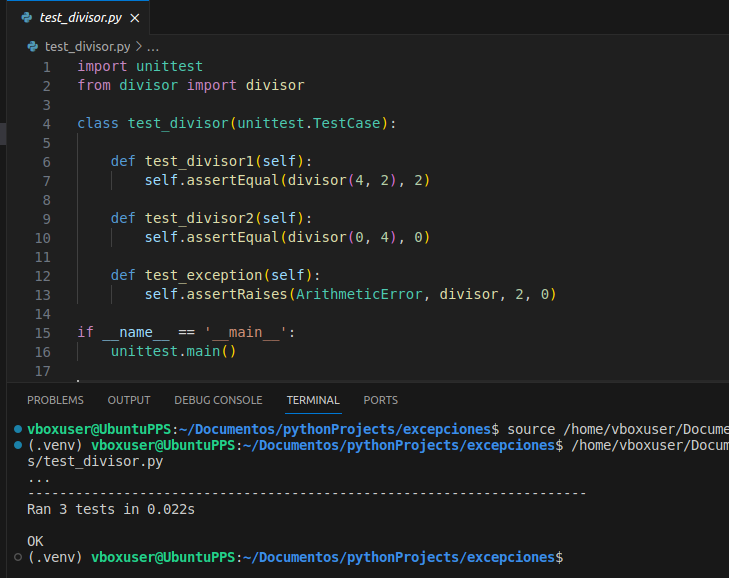
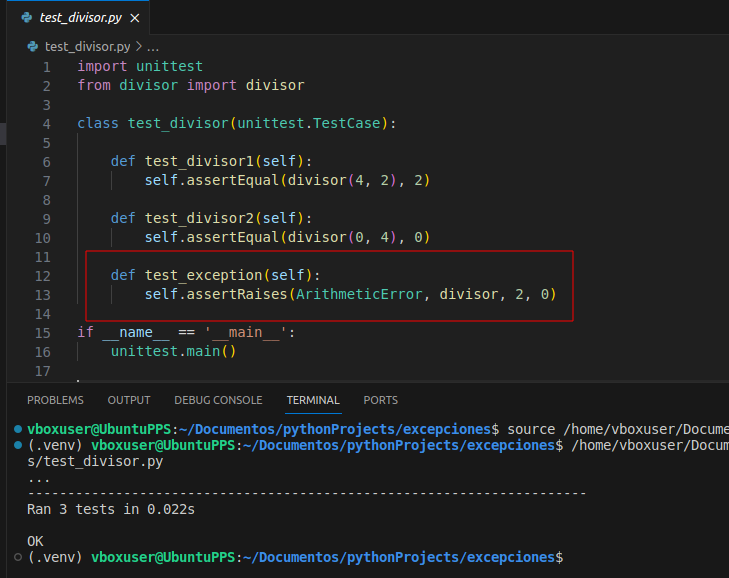
Señalar código test excepción y otras aclaraciones

Changed region(s): [[0.1207, 0.5294, 0.7846, 0.5606], [0.1207, 0.4048, 0.7846, 0.436]]

diff --git a/pruebas/tipospruebas/Readme.md b/pruebas/tipospruebas/Readme.md
@@ -202,7 +202,7 @@ En el apartado [1.4.1.10](../codfuente/Readme.md) se introdujeron las "**Excepci
 
 ![Lanzando una excepción generada por el usuario](_images/divisor_exception.png)
 
-Si se quiere comprobar mediantes tests que realmente se genera la excepción, podemos utilizar "**assertRaises**" tal como se muestra en la siguiente imagen (hay que prestar atención a la disposición de la función y los parámetros de entrada, ya que no sigue el patrón habitual):
+Si se quiere comprobar mediantes tests que realmente se genera la excepción, podemos utilizar "**assertRaises**" tal como se muestra en la siguiente imagen, hay que prestar atención a la disposición de la función y los parámetros de entrada, ya que no sigue el patrón habitual. El primer parámetro de assertRaises es el error que quiero comprobar que se genera (en nuestro caso "ArithmeticError"), seguido del nombre de la función a probar y por último, los dos parámetros de entrada en el orden en el que están declarados en la función original:
 
 ![Testeando la generación de la excepción](_images/divisor_test_exception.png)
 
